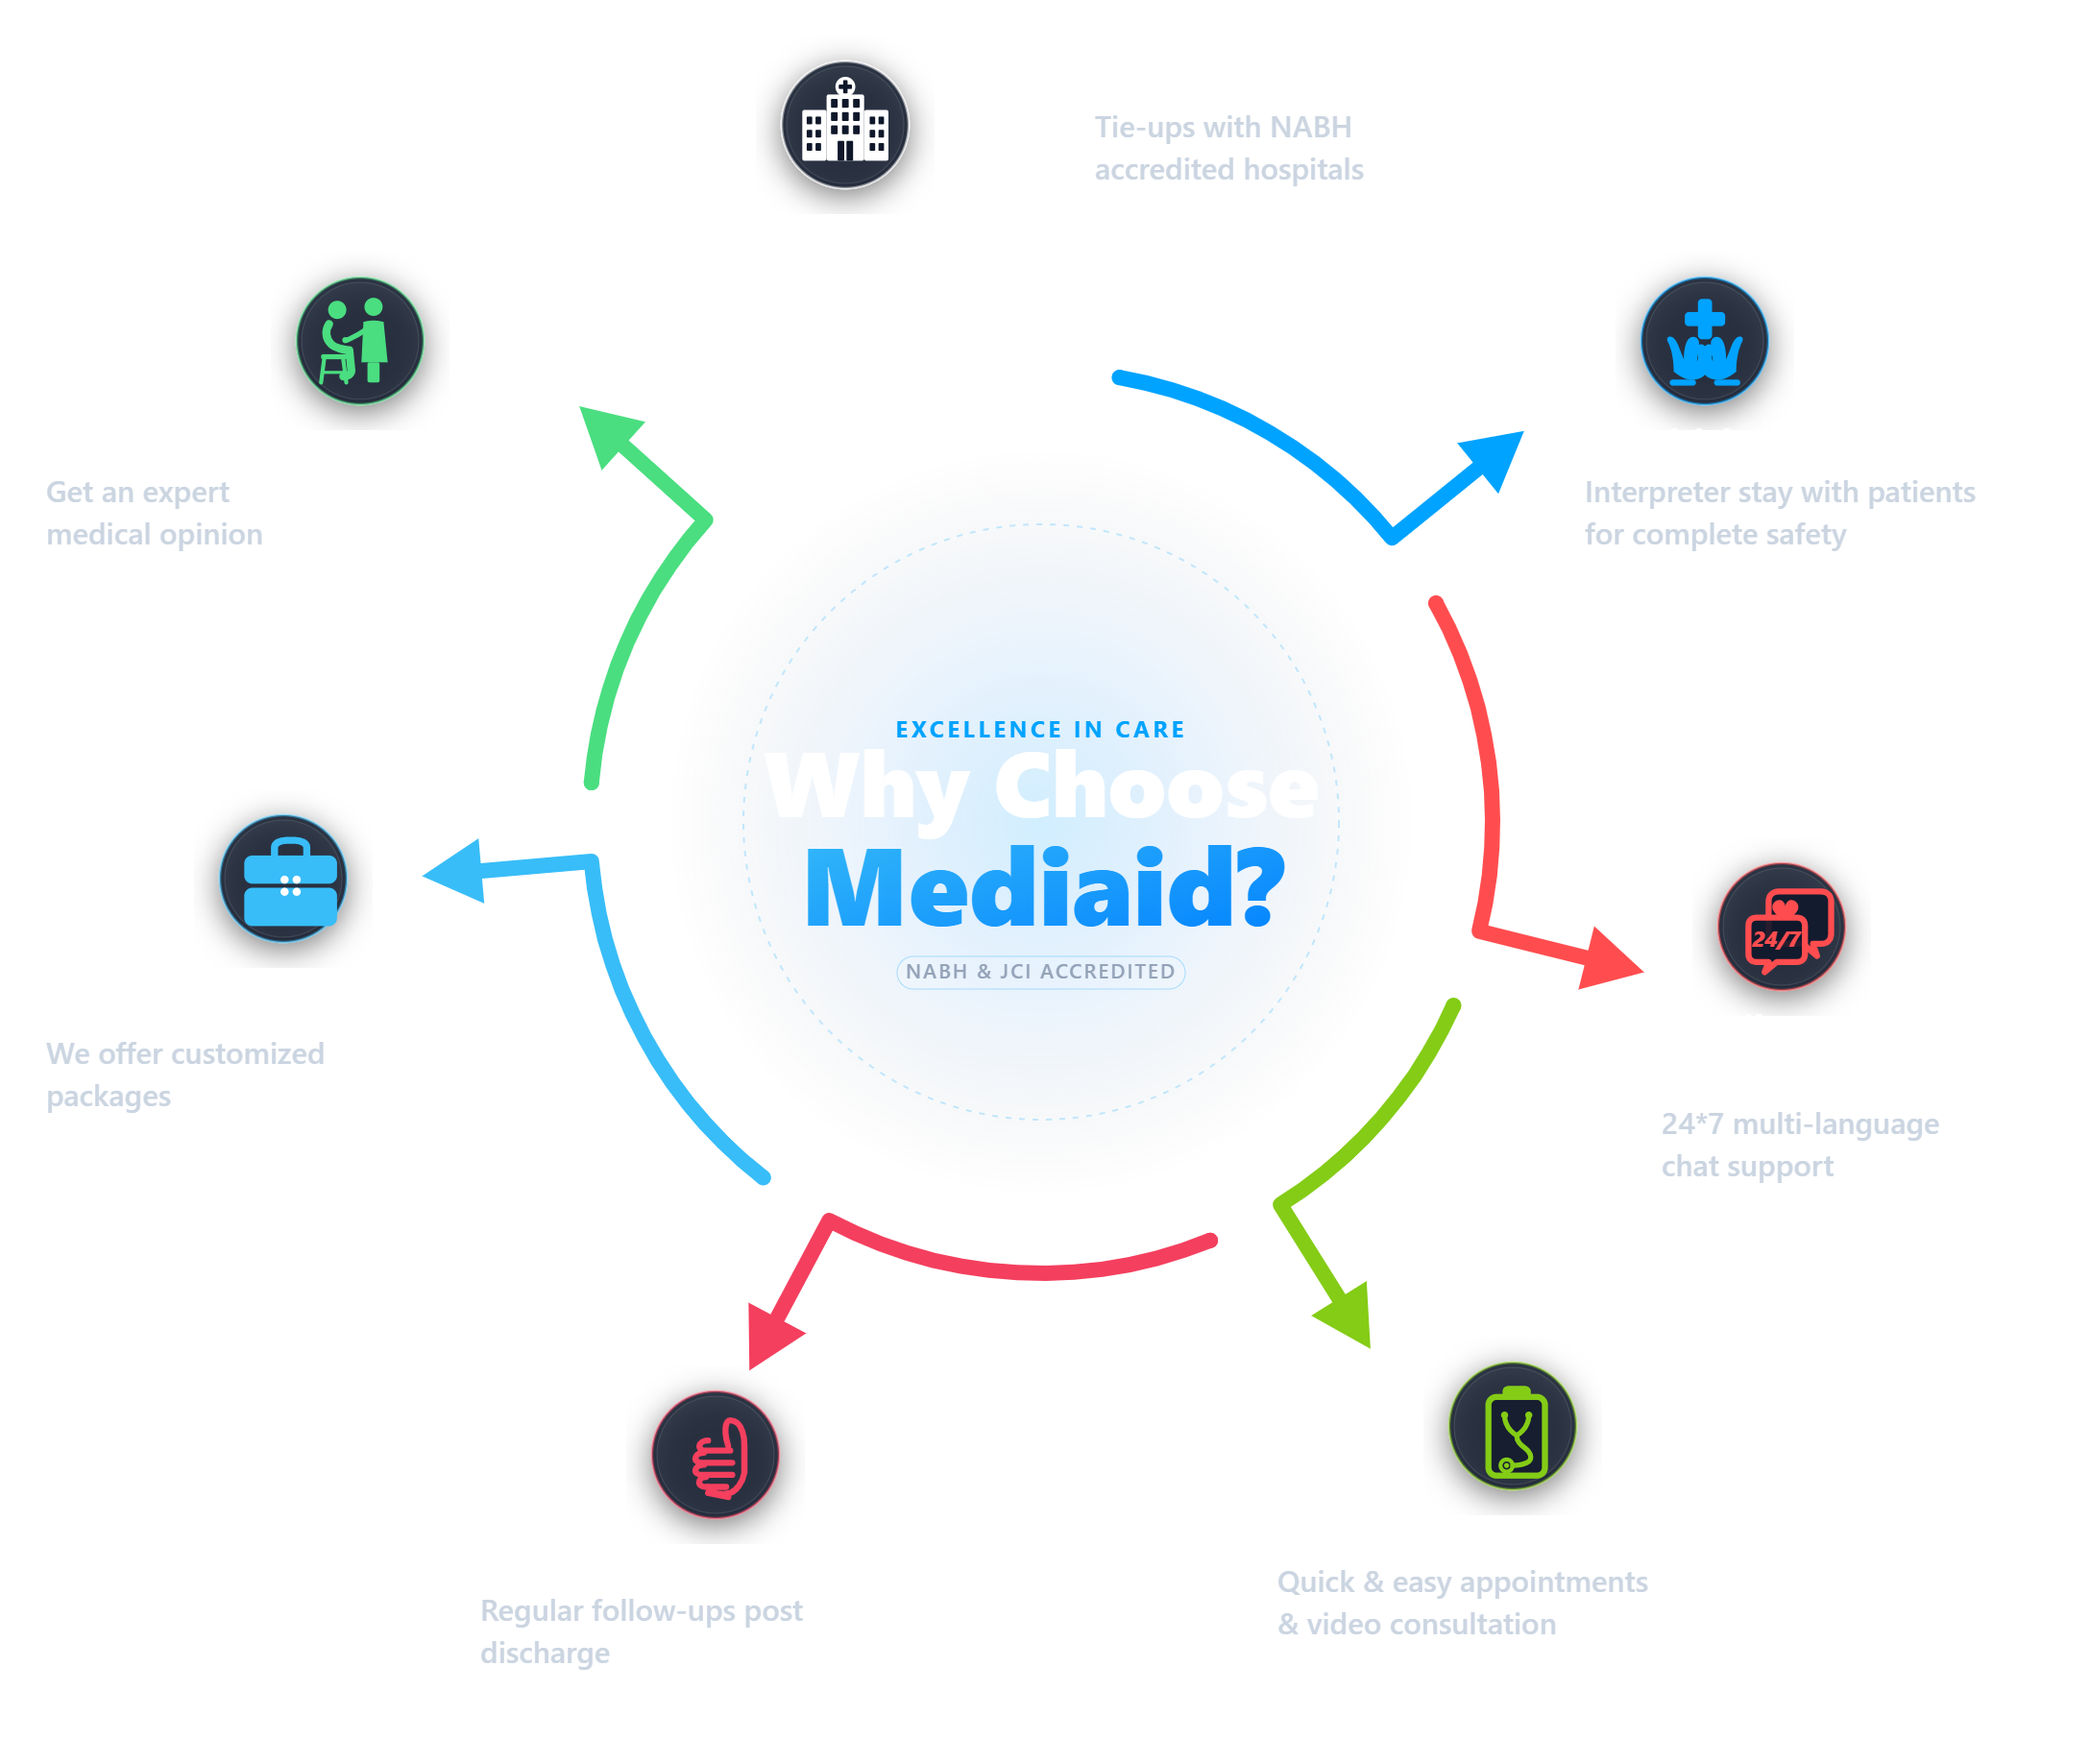
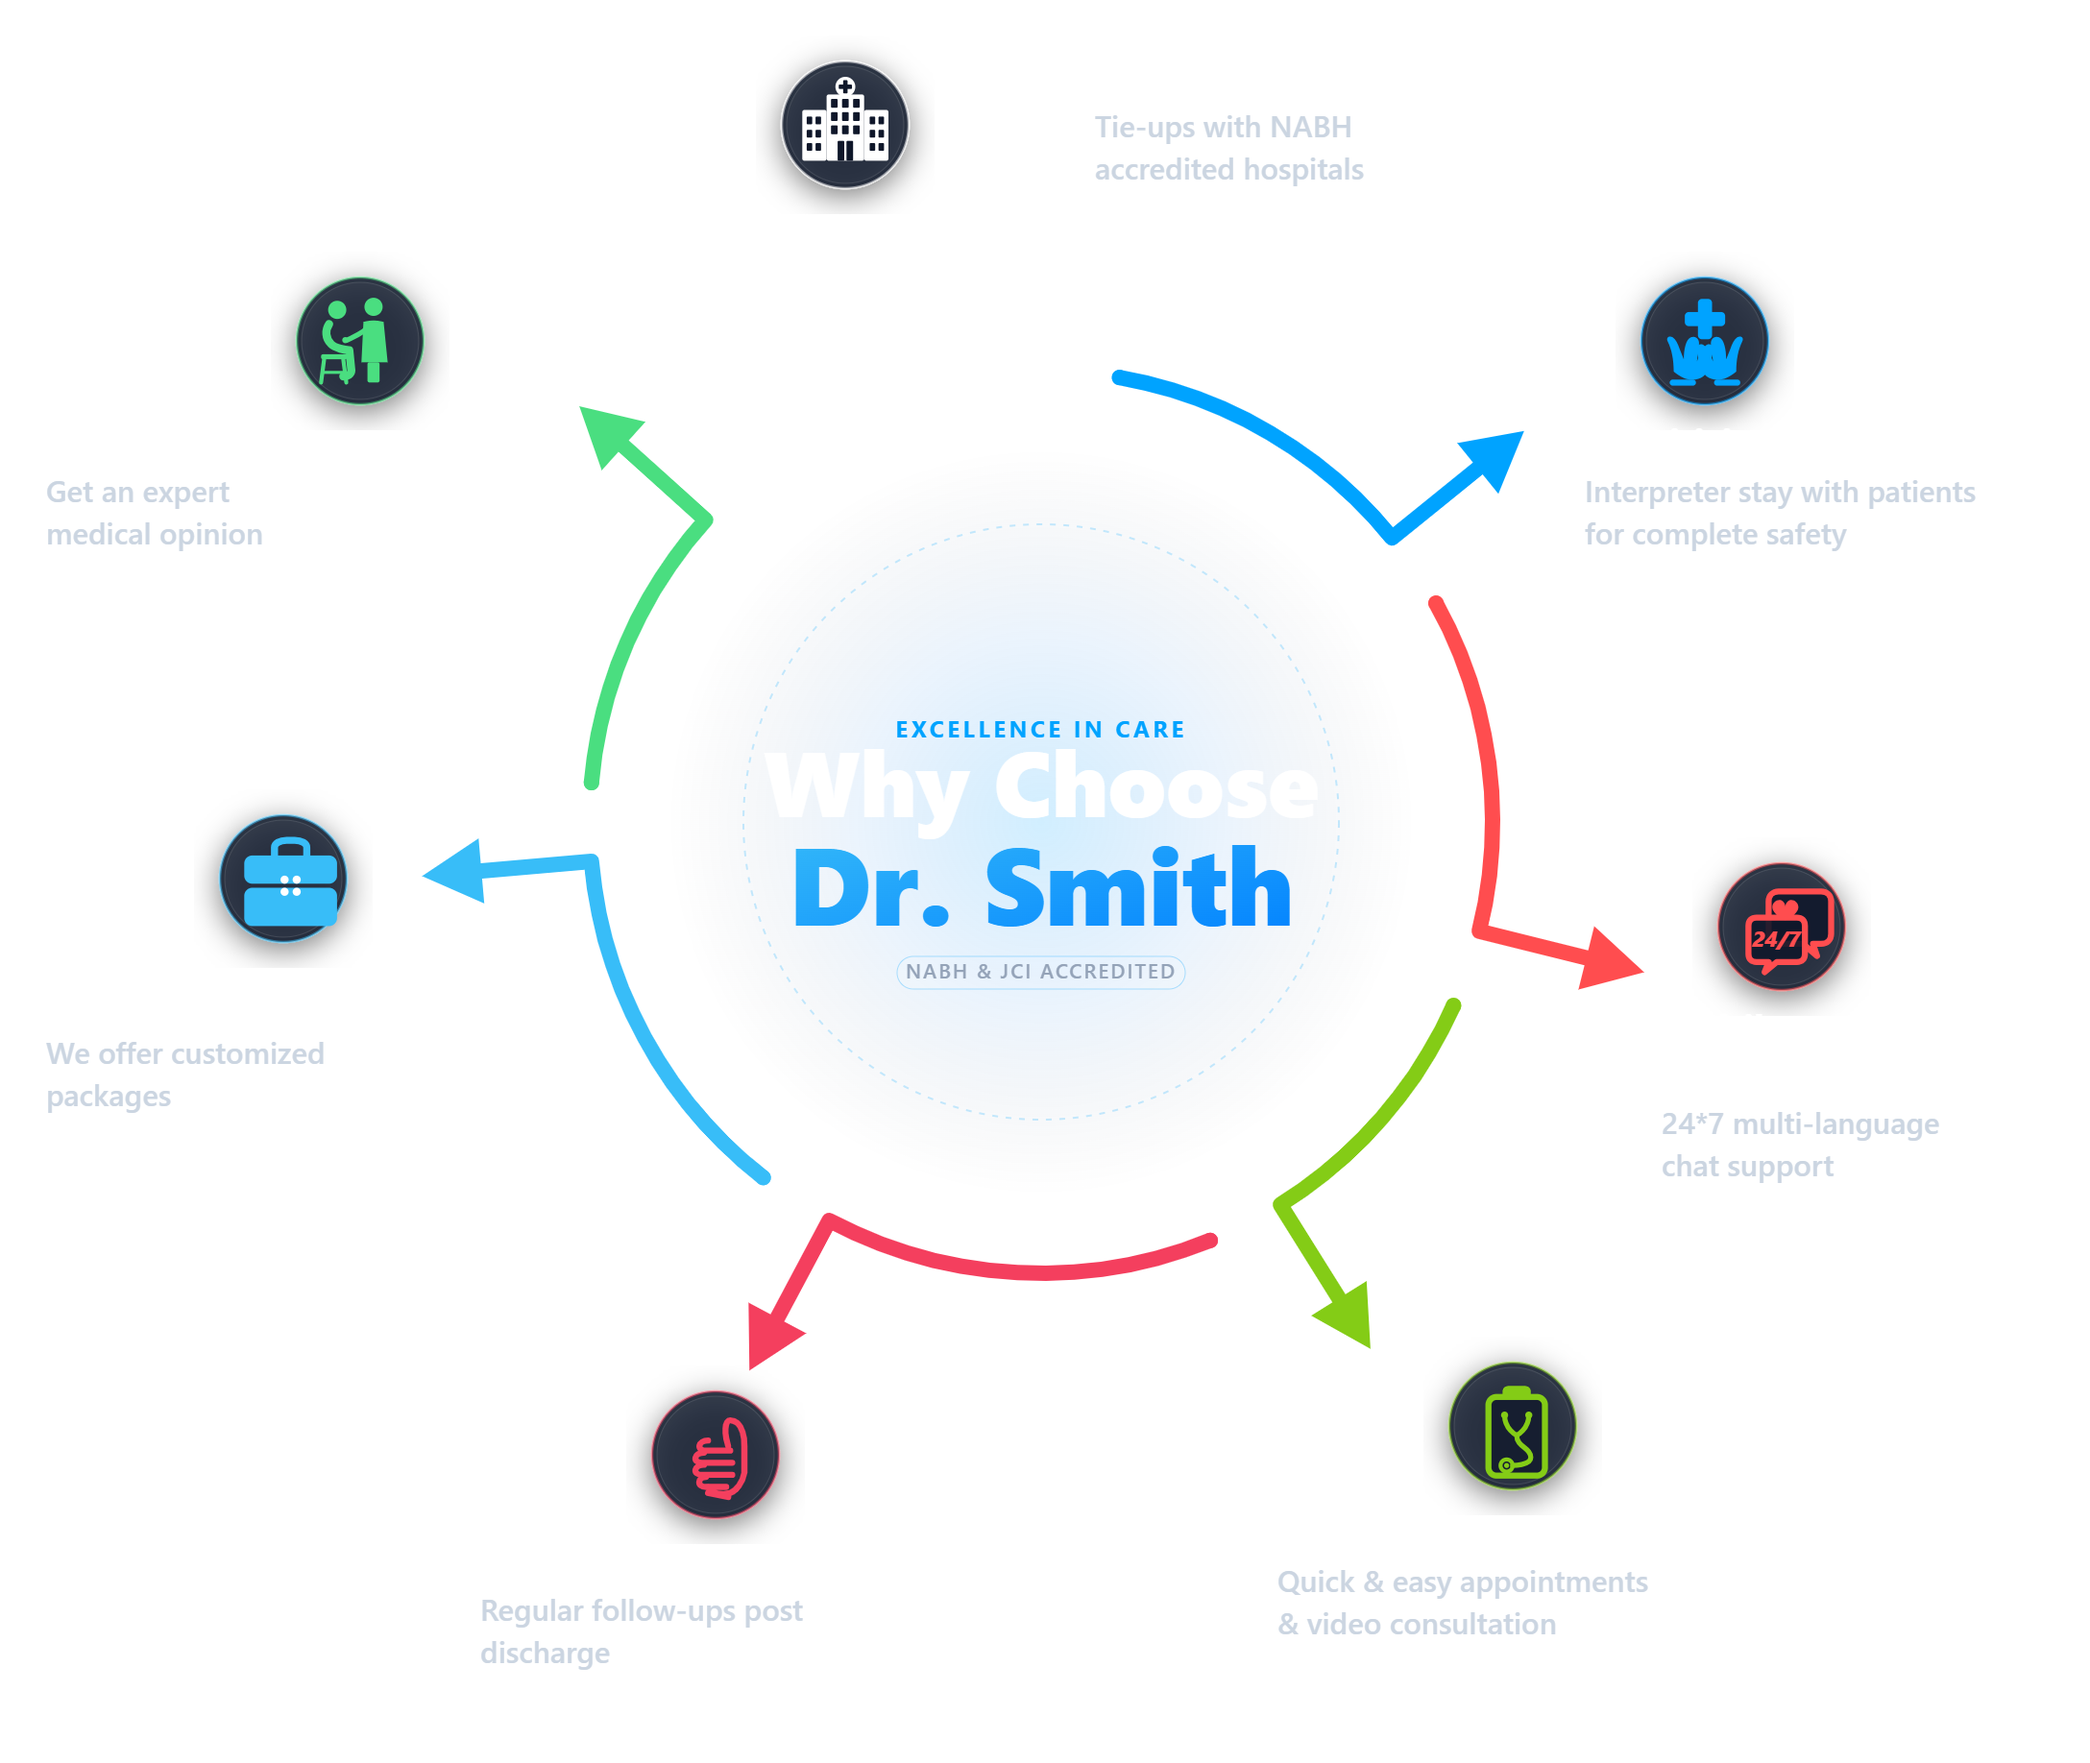
Update Why Choose infographic middle text from Mediaid to Dr. Smith

Changed region(s): [[0.375, 0.4657, 0.625, 0.5278]]

diff --git a/index.html b/index.html
@@ -258,11 +258,11 @@
   </section>
 
   <!-- ============================================================
-       WHY CHOOSE MEDIAID (TRANSPARENT INFOGRAPHIC)
+       WHY CHOOSE DR. SMITH (TRANSPARENT INFOGRAPHIC)
        ============================================================ -->
   <section class="why-choose-transparent-section text-center" id="why-choose">
     <div class="container text-center">
-      <img src="catalogue/why choose.png" alt="Why Choose Mediaid" class="why-choose-transparent-img img-fluid" loading="eager" width="2176" height="1836">
+      <img src="catalogue/why choose.png" alt="Why Choose Dr. Smith" class="why-choose-transparent-img img-fluid" loading="eager" width="2176" height="1836">
     </div>
   </section>
 
